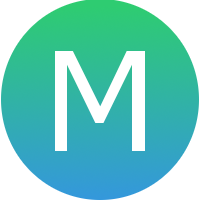
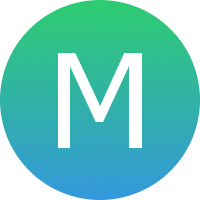
Changed MessengerIcon.png and changed some things in DataController

diff --git a/src/messenger/packet/packets/PacketUser.java b/src/messenger/packet/packets/PacketUser.java
@@ -1,5 +1,6 @@
 package messenger.packet.packets;
 
+import java.awt.Color;
 import java.io.DataInputStream;
 import java.io.DataOutputStream;
 import java.io.IOException;
@@ -8,23 +9,68 @@ import messenger.packet.Packet;
 
 public class PacketUser extends Packet {
 	
-
-	public PacketUser() {
+	private PacketUserType packetUserType;
+	
+	private int userID;
+	private String userName;
+	private Color userColor;
+	private byte[] userIconBytes;
+	
+	public PacketUser(PacketUserType packetUserType) {
 		super(PacketType.USER);
 	}
 
 	@Override
 	public void writeContent(DataOutputStream dataOutputStream) throws IOException{
+		super.writeContent(dataOutputStream);
 		
 	}
 
 	@Override
 	public void readContent(DataInputStream dataInputStream) throws IOException{
+		super.readContent(dataInputStream);
 		
 	}
 	
 	
+	public PacketUserType getPacketUserType() {
+		return packetUserType;
+	}
+	
+	public int getUserID() {
+		return userID;
+	}
+
+	public void setUserID(int userID) {
+		this.userID = userID;
+	}
+
+	public String getUserName() {
+		return userName;
+	}
+
+	public void setUserName(String userName) {
+		this.userName = userName;
+	}
+
+	public Color getUserColor() {
+		return userColor;
+	}
+
+	public void setUserColor(Color userColor) {
+		this.userColor = userColor;
+	}
+
+	public byte[] getUserIconBytes() {
+		return userIconBytes;
+	}
+
+	public void setUserIconBytes(byte[] userIconBytes) {
+		this.userIconBytes = userIconBytes;
+	}
+	
 	public enum PacketUserType {
 		USERNAME, COLOR, IMAGE_ICON;
 	}
+	
 }

diff --git a/src/messenger/controller/DataController.java b/src/messenger/controller/DataController.java
@@ -12,13 +12,13 @@ import java.nio.file.StandardCopyOption;
 import javax.imageio.ImageIO;
 
 import messenger.user.UserColor;
-import messenger.util.Utils;
 
 public class DataController {
 
 	private MessengerController messengerController;
 	
 	private boolean errorOccured;
+	private boolean isOSX;
 	
 	private String dataFilePath;
 	private String ipAddress;
@@ -82,7 +82,7 @@ public class DataController {
 	
 	private void loadOtherAssets(){
 		try {
-			this.messengerIcon = Utils.getScaledImage(ImageIO.read(this.getClass().getResourceAsStream("/messenger/assets/messengerIcon.png")), 100, 100);
+			this.messengerIcon = ImageIO.read(this.getClass().getResourceAsStream("/messenger/assets/messengerIcon.png"));
 		} catch (Exception e) {
 			this.errorOccured = true;
 			messengerController.getDebug().presentError("Load Assets", e.getMessage());
@@ -119,6 +119,7 @@ public class DataController {
 		if (os.contains("WIN")) {
 			return System.getenv("APPDATA");
 		}else if(os.contains("MAC")) {
+			this.isOSX = true;
 			return System.getProperty("user.home") + "/Library/Application Support";
 		}else if(os.contains("NUX")) {
 			return System.getProperty("user.home");
@@ -129,10 +130,15 @@ public class DataController {
 	public boolean errorOccured() {
 		return errorOccured;
 	}
+	
+	public boolean isOSX() {
+		return isOSX;
+	}
 
 	public String getIpAddress() {
 		return ipAddress;
 	}
+	
 
 	public void setIpAddress(String ipAddress) {
 		this.ipAddress = ipAddress;

diff --git a/src/messenger/controller/Debug.java b/src/messenger/controller/Debug.java
@@ -2,6 +2,7 @@ package messenger.controller;
 
 import javax.swing.ImageIcon;
 import javax.swing.JOptionPane;
+import javax.swing.SwingUtilities;
 
 public class Debug {
 
@@ -12,12 +13,17 @@ public class Debug {
 	}
 
 	public void presentError(String title, String message){
-		if(messengerController.getDataController().getMessengerIcon() == null){
-			JOptionPane.showMessageDialog(messengerController.getMessengerFrame(), message, title, JOptionPane.CLOSED_OPTION);
-		}else{
-			JOptionPane.showMessageDialog(messengerController.getMessengerFrame(), message, title, JOptionPane.CLOSED_OPTION,
-					new ImageIcon(messengerController.getDataController().getMessengerIcon()));
-		}
+		SwingUtilities.invokeLater(new Runnable() {
+			@Override
+			public void run() {
+				if(messengerController.getDataController().getMessengerIcon() == null){
+					JOptionPane.showMessageDialog(messengerController.getMessengerFrame(), message, title, JOptionPane.CLOSED_OPTION);
+				}else{
+					JOptionPane.showMessageDialog(messengerController.getMessengerFrame(), message, title, JOptionPane.CLOSED_OPTION,
+							new ImageIcon(messengerController.getDataController().getMessengerIcon()));
+				}
+			}
+		});
 	}
 
 }

diff --git a/src/messenger/user/UserConnection.java b/src/messenger/user/UserConnection.java
@@ -2,6 +2,7 @@ package messenger.user;
 
 import java.io.DataInputStream;
 import java.io.DataOutputStream;
+import java.io.IOException;
 import java.net.Socket;
 
 public class UserConnection extends Thread {
@@ -12,17 +13,30 @@ public class UserConnection extends Thread {
 	private DataOutputStream dataOutputStream;
 	private DataInputStream dataInputStream;
 	
-	public UserConnection(User user, Socket socket){
+	public UserConnection(User user){
 		this.user = user;
 		
-		this.socket = socket;
+		try {
+			this.socket = new Socket(user.getMessengerController().getDataController().getIpAddress(), user.getMessengerController().getDataController().getPort());
+		} catch (IOException e) {
+			user.getMessengerController().getDebug().presentError("Socket connection", e.getMessage());
+		}
 		this.dataOutputStream = new DataOutputStream(dataOutputStream);
 		this.dataInputStream = new DataInputStream(dataInputStream);
 	}
 	
 	@Override
 	public void run(){
-		
+		while(!socket.isClosed()){
+			
+		}
+		this.close(false);
+	}
+	
+	public void close(boolean clientClosed){
+		if(socket != null){
+			
+		}
 	}
 	
 

diff --git a/src/messenger/util/Utils.java b/src/messenger/util/Utils.java
@@ -3,6 +3,11 @@ package messenger.util;
 import java.awt.Graphics2D;
 import java.awt.RenderingHints;
 import java.awt.image.BufferedImage;
+import java.io.ByteArrayInputStream;
+import java.io.ByteArrayOutputStream;
+import java.io.IOException;
+
+import javax.imageio.ImageIO;
 
 public class Utils {
 	
@@ -14,4 +19,20 @@ public class Utils {
 	    g2.dispose();
 	    return resizedImage;
 	}
+	
+	public static byte[] bufferedImageToBytes(BufferedImage bufferedImage, String formatName) throws IOException{
+		ByteArrayOutputStream outputStream = new ByteArrayOutputStream(8000); // creates a buffer of 8 kilobytes.
+		byte[] bytes = null;
+		ImageIO.write(bufferedImage, formatName, outputStream);
+		outputStream.flush(); // Gets rid of bytes that weren't filled in the buffer
+		bytes = outputStream.toByteArray();
+		outputStream.close();
+		return bytes;
+	}
+	
+	public static BufferedImage bytesToBufferedImage(byte[] imageBytes) throws IOException {
+		ByteArrayInputStream byteInputStream = new ByteArrayInputStream(imageBytes);
+		return ImageIO.read(byteInputStream);
+	}
+	
 }

diff --git a/src/messenger/packet/Packet.java b/src/messenger/packet/Packet.java
@@ -12,35 +12,20 @@ public abstract class Packet {
 		this.packetType = packetType;
 	}
 	
-	public abstract void writeContent(DataOutputStream dataOutputStream) throws IOException;
+	public void writeContent(DataOutputStream dataOutputStream) throws IOException{
+		dataOutputStream.writeUTF(packetType.toString());
+	}
 	
-	public abstract void readContent(DataInputStream dataInputStream) throws IOException;
+	public void readContent(DataInputStream dataInputStream) throws IOException{
+		this.packetType = PacketType.valueOf(dataInputStream.readUTF());
+	}
 	
 	public PacketType getPacketType() {
 		return packetType;
 	}
 	
 	public enum PacketType {
-		MESSAGE(0), FILE(1), USER(2);
-		
-		private int type;
-		
-		private PacketType(int typeCode){
-			type = typeCode;
-		}
-		
-		public int getTypeCode(){
-			return type;
-		}
-		
-		public static PacketType getTypeFromCode(int typeCode){
-			for(PacketType type : values()){
-				if(type.getTypeCode() == typeCode){
-					return type;
-				}
-			}
-			return null;
-		}
+		MESSAGE, FILE, USER;
 	}
 	
 }

diff --git a/src/messenger/packet/packets/PacketMessage.java b/src/messenger/packet/packets/PacketMessage.java
@@ -20,26 +20,20 @@ public class PacketMessage extends Packet {
 
 	@Override
 	public void writeContent(DataOutputStream dataOutputStream) throws IOException{
+		super.writeContent(dataOutputStream);
 		dataOutputStream.writeUTF(packetMessageType.toString());
-		switch(packetMessageType){
-			case MESSAGE:
-				dataOutputStream.writeUTF(message);
-				break;
-			default:
-				break;
+		if(packetMessageType == PacketMessageType.MESSAGE){
+			dataOutputStream.writeUTF(message);
 		}
 	}
 
 	@Override
 	public void readContent(DataInputStream dataInputStream) throws IOException{
+		super.readContent(dataInputStream);
 		this.packetMessageType = PacketMessageType.valueOf(dataInputStream.readUTF());
 		this.userID = dataInputStream.readInt();
-		switch(packetMessageType){
-			case MESSAGE:
-				this.message = dataInputStream.readUTF();
-				break;
-			default:
-				break;
+		if(packetMessageType == PacketMessageType.MESSAGE){
+			this.message = dataInputStream.readUTF();
 		}
 	}
 	

diff --git a/src/messenger/view/MessengerFrame.java b/src/messenger/view/MessengerFrame.java
@@ -8,18 +8,34 @@ public class MessengerFrame extends JFrame {
 	
 	private MessengerController messengerController;
 	
+	private MessengerPanel messengerPanel;
+	
 	public MessengerFrame(MessengerController messengerController){
+		super();
 		this.messengerController = messengerController;
+		this.messengerPanel = new MessengerPanel(this);
 		this.setupFrame();
 	}
 	
 	private void setupFrame(){
+		this.setContentPane(messengerPanel);
 		
+		this.setDefaultCloseOperation(JFrame.EXIT_ON_CLOSE);
+		
+		this.setSize(800, 600);
+		this.setLocationRelativeTo(null); // Centers the frame
+		this.setIconImage(messengerController.getDataController().getMessengerIcon());
+		
+		this.setVisible(true);
 	}
 
 	
 	public MessengerController getMessengerController(){
 		return messengerController;
+	}
+
+	public MessengerPanel getMessengerPanel() {
+		return messengerPanel;
 	}
 	
 }

diff --git a/src/messenger/controller/MessengerController.java b/src/messenger/controller/MessengerController.java
@@ -15,10 +15,11 @@ public class MessengerController {
 		this.debug = new Debug(this);
 		this.dataController = new DataController(this);
 		if(!this.dataController.errorOccured()){
-//			this.user = new User(this);
-//			this.messengerFrame = new MessengerFrame(this);
+			//this.user = new User(this);
+			this.messengerFrame = new MessengerFrame(this);
 		}else{ // problem loading files!
 			this.debug.presentError("Fatal Error", "Closing program!");
+			System.exit(0);
 		}
 	}
 	

diff --git a/src/messenger/view/MessengerPanel.java b/src/messenger/view/MessengerPanel.java
@@ -1,0 +1,25 @@
+package messenger.view;
+
+import javax.swing.JPanel;
+
+public class MessengerPanel extends JPanel {
+	
+	private MessengerFrame messengerFrame;
+	
+	public MessengerPanel(MessengerFrame messengerFrame){
+		super();
+		this.messengerFrame = messengerFrame;
+		
+		this.setupPanel();
+		this.setupLayout();
+	}
+	
+	public void setupPanel(){
+		
+	}
+	
+	public void setupLayout(){
+		
+	}
+
+}

diff --git a/src/messenger/user/User.java b/src/messenger/user/User.java
@@ -17,7 +17,7 @@ public class User {
 	}
 	
 	public void connectToServer(){
-		
+		this.userConnection = new UserConnection(this);
 	}
 
 	
